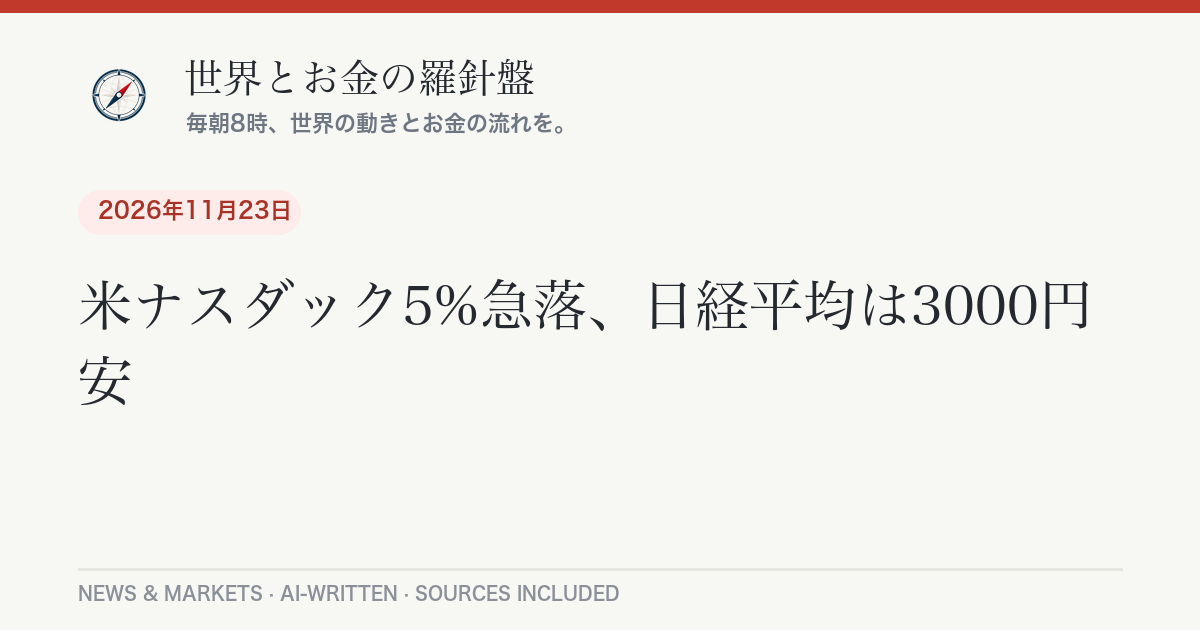
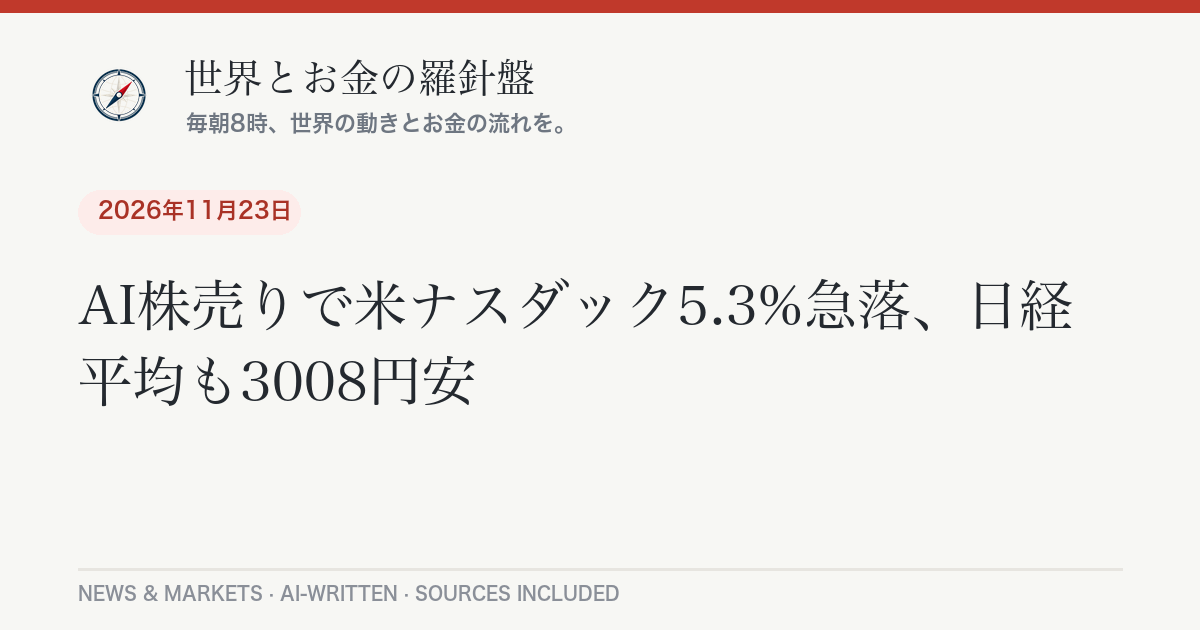
Daily briefing 2026-11-25

Changed region(s): [[0.0617, 0.4222, 0.925, 0.5429], [0.0617, 0.5429, 0.4008, 0.6635]]

diff --git a/_posts/2026-11-25-daily-briefing.md b/_posts/2026-11-25-daily-briefing.md
@@ -1,0 +1,103 @@
+---
+layout: post
+lang: ja
+title: "エヌビディアのファン氏CEO復帰、日経平均2,208円高も米AI株は反落｜11月25日のニュースとお金"
+date: 2026-11-25 08:54:17 +0900
+categories: [ニュース, 経済]
+headline: "エヌビディアのファン氏CEO復帰、日経平均2,208円高も米AI株は反落"
+permalink: /2026/11/25/daily-briefing/
+---
+
+## 今日のポイント
+
+エヌビディアの取締役会がジェンスン・ファン氏のCEO復帰を決め、AI関連株が大きく動いた一日でした。東京では日経平均が急反発しましたが、米国ではそのAI株が翌日にはっきり反落。一方でダウは5万ドル台で引け、「AIだけが相場ではない」という顔つきも見えてきました。
+
+## 今日の羅針盤（Compass Insight）
+
+昨日の相場は「AI株の急騰と反落」と「AI以外の堅調」が同時に起きた、二つの顔を持つ一日でした。日経平均は[3.91%高](https://kabutan.jp/news/marketnews/?b=n202611241187)と派手でしたが、値上がりを引っ張ったのは半導体関連の一部の銘柄です。指数の大きさほど、広く買われたわけではありません。
+
+家計への影響で見ておきたいのは金利です。米国では[12月の利上げ確率が95%とみられ](https://finance.yahoo.com/markets/live/stock-market-today-tuesday-november-24-dow-sp-500-nasdaq-chip-stocks-nvidia-140629923.html)、ドル円は[159円台](https://api.frankfurter.app/)の円安水準にあります。円安が続くと、輸入品や光熱費の負担が重くなりやすい点は意識しておきたいところです。株価が上がっても、暮らしのコストが同時に上がる局面だからです。
+
+短期では、感謝祭（26日）を前にした今夜の米国市場と、東京市場が今日どこまで戻すかに注目です。夜間の日経平均先物は[前日比1,610円安](https://news.livedoor.com/topics/detail/32892584/)で終えており、今日は売りから始まる可能性があります。中長期では、AI投資に見合う利益が出るのか、高い金利の中で資金調達が続くのか、そして米中間選挙後の規制の行方が焦点です。値動きの大きい局面なので、一つのテーマに集中しすぎない姿勢が問われそうです。
+
+## 今日のニュース
+
+### 日本
+- 3連休明けの東京市場で日経平均は[5万8,644円63銭、前週末比2,207円98銭高](https://kabutan.jp/news/marketnews/?b=n202611241187)と急反発。エヌビディアのファン氏復帰を受け、AI・半導体関連に買い戻しが入った。
+- 楽天証券は11月17日、不正アクセスにより顧客情報が漏えいした可能性があると発表。[最大約1,125万口座でログインIDなど、最大約447万口座で氏名・住所などが対象となる可能性](https://www.watch.impress.co.jp/docs/news/2157207.html)がある。パスワードなど取引に必要な情報の漏えいは確認されていないとしている。
+- 高市首相は先週（18〜19日）の中国・深圳でのAPECで、[習近平国家主席との正式会談は見送られる見通し](https://www.internazionale.it/ultime-notizie-reuters/2026/11/19/from-tarmac-to-apec-summit-table-japan-s-pm-cuts-a-lonely-figure)など、日中関係の冷え込みが改めて浮き彫りになった。
+
+### 世界
+- [エヌビディアの取締役会は23日、ファン氏をCEOに復帰させることを全会一致で決定](https://investor.nvidia.com/news/press-release-details/2026/NVIDIA-Board-Reinstates-Jensen-Huang-as-President-CEO-and-Board-Director/default.aspx)。トランプ大統領は[自らの働きかけを強調](https://www.npr.org/2026/11/23/nx-s1-6050910/nvidias-jensen-huang-trump)した。
+- 対話型AI「Claude」を手がけるアンソロピックの株価が[6.5%下落し、先週の新規公開価格（83ドル）を下回った](https://bnnbloomberg.ca/investing/market-outlook/2026/11/24/tech-stocks-wane-a-day-after-a-huang-rally-as-anthropic-tumbles-below-its-initial-offering-price)。
+- APEC（18〜19日）では、[習近平、トランプ、プーチンの3首脳が会談](https://www.cnbc.com/2026/11/19/trump-xi-putin-photos-us-china-russia-trilateral-.html)した。
+
+### アメリカ
+- 24日の米株は、ダウが[423.39ドル高の5万18.70ドル](https://wtop.com/national/2026/11/how-major-us-stock-indexes-fared-tuesday-11-24-2026)で引け、S&P500とナスダックは下落。AI関連株が売られた一方、それ以外の多くの銘柄は上昇した。
+- 米消費者の景況感は、コンファレンスボードの調査で[予想以上に改善](https://bnnbloomberg.ca/investing/market-outlook/2026/11/24/tech-stocks-wane-a-day-after-a-huang-rally-as-anthropic-tumbles-below-its-initial-offering-price)。中間選挙後に民主党支持層・無党派層の信頼感が大きく上向いた。
+- 市場では[12月に0.25ポイントの利上げがある確率が95%](https://finance.yahoo.com/markets/live/stock-market-today-tuesday-november-24-dow-sp-500-nasdaq-chip-stocks-nvidia-140629923.html)との見方になっている。
+
+### ヨーロッパ
+- スペインでは[11月29日に総選挙](https://www.bnnbloomberg.ca/business/international/2026/11/11/spains-workers-hold-a-general-strike-over-housing-costs-ahead-of-a-national-election/)。住宅費高騰への抗議で11日にゼネストが行われた経緯がある。
+- ECBのラガルド総裁は11月初め、[インフレ・リスクが続くと警告](https://www.fxstreet.com/news/ecbs-lagarde-warns-inflation-risks-persist-as-energy-and-ai-trends-diverge-202611051622)した。昨日の欧州市場について確認できた主だった動きは限定的。
+
+## 経済とお金の動き
+
+### 世界の経済と相場
+
+| 指標 | 水準 | 前日比 |
+|---|---|---|
+| 日経平均株価（11/24終値） | 58,644.63円 | <span class="chg-up">+2,207.98円（+3.91%）</span> |
+| NYダウ（11/24終値） | 50,018.70ドル | <span class="chg-up">+423.39ドル（+0.85%）</span> |
+| S&P500 | 7,201.09 | <span class="chg-down">-36.08（-0.50%）</span> |
+| ナスダック総合 | 23,733.54 | <span class="chg-down">-356.02（-1.48%）</span> |
+| ドル円（ECB参照レート、11/24） | 159.07円 | 円安水準 |
+| WTI原油（Yahoo Finance表示） | 81.65ドル/バレル | 米報道では「上昇」と伝えられた |
+| 日経平均先物（夜間終値） | 57,370円 | <span class="chg-down">-1,610円</span> |
+
+*出典：[AP](https://wtop.com/national/2026/11/how-major-us-stock-indexes-fared-tuesday-11-24-2026)、[株探](https://kabutan.jp/news/marketnews/?b=n202611241187)、[Yahoo Finance](https://finance.yahoo.com/markets/live/stock-market-today-tuesday-november-24-dow-sp-500-nasdaq-chip-stocks-nvidia-140629923.html)、[frankfurter API](https://api.frankfurter.app/)。ドル円は欧州中央銀行の参照レートで基準日は24日。原油の前日比は情報源で食い違うため、水準のみ記載。*
+
+世界の株式市場は、AI関連が上にも下にも大きく振れる展開です。S&P500は[9営業日で8回下落](https://wtop.com/national/2026/11/how-major-us-stock-indexes-fared-tuesday-11-24-2026)する一方、週間では上昇。値動きの荒さが続いています。
+
+### アメリカの経済
+
+景況感の改善と企業業績の強さが下支えです。S&P500の企業は[3四半期連続で1株利益が25%超の伸び](https://bnnbloomberg.ca/investing/market-outlook/2026/11/24/tech-stocks-wane-a-day-after-a-huang-rally-as-anthropic-tumbles-below-its-initial-offering-price)の勢いとされます。ただ、利上げ観測が強まるとAI企業の資金調達コストが上がり、株価の重しになります。
+
+### 日本の経済
+
+日経平均は大きく戻したものの、値上がり銘柄数は指数の上げ幅ほど広がりませんでした。円安水準が続くなか、今日は先物安を受けて売りから入る可能性があり、AI・半導体株に偏った上昇の脆さが試されます。
+
+## 今日の注目銘柄・セクター
+
+- **エヌビディア**：CEO復帰が発表された23日に[31.5%の急騰](https://bnnbloomberg.ca/investing/market-outlook/2026/11/24/tech-stocks-wane-a-day-after-a-huang-rally-as-anthropic-tumbles-below-its-initial-offering-price)、24日は[5.9%下落](https://bnnbloomberg.ca/investing/market-outlook/2026/11/24/tech-stocks-wane-a-day-after-a-huang-rally-as-anthropic-tumbles-below-its-initial-offering-price)。復帰は材料でも、AIの収益性への疑問は解消していないとの見方が背景。
+- **日本のAI・半導体関連（アドバンテスト、東京エレクトロンなど）**：24日の日経平均で[上げ幅への寄与が最も大きかった](https://www.media-ir.com/news/?p=189279)。米国の反落を受け、今日は値動きが荒くなる可能性。
+- **アンソロピック**：上場直後に一時115ドルまで上昇したが、24日は6.5%安で公開価格の83ドルを下回った。人気先行だった評価の調整局面。
+- **小売（コールズ、ダラー・ツリー）**：決算が予想を上回り、[コールズは19.5%高、ダラー・ツリーは11.2%高](https://bnnbloomberg.ca/investing/market-outlook/2026/11/24/tech-stocks-wane-a-day-after-a-huang-rally-as-anthropic-tumbles-below-its-initial-offering-price)。AI以外にも資金が向かっている例。
+
+*※特定銘柄の売買を推奨するものではありません。投資判断はご自身の責任で。*
+
+## まとめ：注目の3つ
+
+1. エヌビディアのCEO復帰で動いたAI株。急騰の翌日の反落で、方向感はまだ定まっていない。
+2. 米国の12月利上げ観測（確率95%）と、159円台のドル円。家計への影響も含めて注視。
+3. 今日の東京市場。夜間先物が1,610円安で終え、売りから入る可能性。
+
+---
+<div class="post-sources" markdown="1">
+
+**出典：**
+- [AP通信（WTOP）：How major US stock indexes fared Tuesday 11/24/2026](https://wtop.com/national/2026/11/how-major-us-stock-indexes-fared-tuesday-11-24-2026)
+- [AP通信（BNN Bloomberg）：Drops for Nvidia, Anthropic and other AI stocks drag the U.S. market back down](https://bnnbloomberg.ca/investing/market-outlook/2026/11/24/tech-stocks-wane-a-day-after-a-huang-rally-as-anthropic-tumbles-below-its-initial-offering-price)
+- [Yahoo Finance：Stock market today, Nov. 24](https://finance.yahoo.com/markets/live/stock-market-today-tuesday-november-24-dow-sp-500-nasdaq-chip-stocks-nvidia-140629923.html)
+- [NVIDIA：Board Reinstates Jensen Huang as President, CEO and Board Director](https://investor.nvidia.com/news/press-release-details/2026/NVIDIA-Board-Reinstates-Jensen-Huang-as-President-CEO-and-Board-Director/default.aspx)
+- [NPR：Nvidia brings Jensen Huang back, and Trump claims credit](https://www.npr.org/2026/11/23/nx-s1-6050910/nvidias-jensen-huang-trump)
+- [株探：日経平均 大引け（11月24日）](https://kabutan.jp/news/marketnews/?b=n202611241187)
+- [ライブドアニュース：日経225先物 25日夜間取引終値](https://news.livedoor.com/topics/detail/32892584/)
+- [INTERNET Watch：楽天証券に不正アクセス](https://www.watch.impress.co.jp/docs/news/2157207.html)
+- [Reuters（Internazionale転載）：Japan's PM cuts a lonely figure](https://www.internazionale.it/ultime-notizie-reuters/2026/11/19/from-tarmac-to-apec-summit-table-japan-s-pm-cuts-a-lonely-figure)
+- [CNBC：APEC final day in photos](https://www.cnbc.com/2026/11/19/trump-xi-putin-photos-us-china-russia-trilateral-.html)
+- 市場データ: [frankfurter API](https://api.frankfurter.app/) ／ Yahoo Finance ほか
+
+*本記事は公開情報をもとに作成しています。*
+
+</div>

diff --git a/_posts/2026-11-25-daily-briefing-en.md b/_posts/2026-11-25-daily-briefing-en.md
@@ -1,0 +1,51 @@
+---
+layout: post
+lang: en
+title: "Nvidia's CEO Comeback Sparks a Whiplash AI Rally; Dow Closes Above 50,000 — November 25, 2026"
+date: 2026-11-25 08:54:17 +0900
+headline: "Nvidia's CEO Comeback Sparks a Whiplash AI Rally; Dow Closes Above 50,000"
+permalink: /2026/11/25/daily-briefing/
+---
+
+## Top U.S. Stories
+
+- **Nvidia reversed course and brought Jensen Huang back.** The board [voted unanimously on Nov. 23 to reinstate him](https://investor.nvidia.com/news/press-release-details/2026/NVIDIA-Board-Reinstates-Jensen-Huang-as-President-CEO-and-Board-Director/default.aspx) as president, CEO and director. President Trump [said he pushed for the move](https://www.npr.org/2026/11/23/nx-s1-6050910/nvidias-jensen-huang-trump). *Why it matters:* Nvidia is the bellwether of the AI trade, so a leadership question at the top moves the whole market.
+- **Nvidia gave back part of its gains.** Shares [fell 5.9% on Tuesday](https://bnnbloomberg.ca/investing/market-outlook/2026/11/24/tech-stocks-wane-a-day-after-a-huang-rally-as-anthropic-tumbles-below-its-initial-offering-price), a day after a 31.5% surge, its biggest gain in more than two decades. *Why it matters:* The rebound did not settle doubts about whether AI spending will pay off.
+- **Anthropic slipped below its IPO price.** The stock [dropped 6.5% to under $83](https://bnnbloomberg.ca/investing/market-outlook/2026/11/24/tech-stocks-wane-a-day-after-a-huang-rally-as-anthropic-tumbles-below-its-initial-offering-price), the level at which it sold shares last week, after briefly hitting $115 on day one.
+- **Consumers are feeling better.** Conference Board confidence [improved more than economists expected](https://bnnbloomberg.ca/investing/market-outlook/2026/11/24/tech-stocks-wane-a-day-after-a-huang-rally-as-anthropic-tumbles-below-its-initial-offering-price), with a sharp jump among Democrats and independents after the midterms.
+- **Retail earnings beat.** Kohl's rose 19.5% and Dollar Tree 11.2% after better-than-expected results.
+
+## Compass Insight
+
+Tuesday showed a market with two faces. AI-linked stocks reversed hard while most other stocks climbed, so the Dow rose and the Nasdaq fell. The signal is breadth: money is not leaving equities, it is rotating away from the most crowded trade. The bigger swing factor is rates. Traders now see a [95% chance of a 25 basis point Fed hike in December](https://finance.yahoo.com/markets/live/stock-market-today-tuesday-november-24-dow-sp-500-nasdaq-chip-stocks-nvidia-140629923.html), and higher borrowing costs weigh most on companies funding huge data-center builds. Near term, watch Wednesday's session before the Thanksgiving closure on Thursday. Longer term, the questions are AI profitability, financing costs and possible post-midterm regulation. Diversifying across sectors looks more relevant than chasing any single headline.
+
+## Markets
+
+- **Dow:** [50,018.70, up 423.39 (0.9%)](https://wtop.com/national/2026/11/how-major-us-stock-indexes-fared-tuesday-11-24-2026)
+- **S&P 500:** 7,201.09, down 36.08 (0.5%), its eighth loss in nine days
+- **Nasdaq:** 23,733.54, down 356.02 (1.5%)
+- **Nikkei 225 (Nov. 24):** [58,644.63, up 2,207.98 (3.91%)](https://kabutan.jp/news/marketnews/?b=n202611241187); [overnight futures fell 1,610 yen](https://news.livedoor.com/topics/detail/32892584/)
+- **USD/JPY:** [159.07](https://api.frankfurter.app/) (ECB reference rate, Nov. 24)
+
+## Stocks in Focus
+
+- **Nvidia:** a 31.5% jump on the CEO news, then a 5.9% drop. The volatility shows how much the AI trade is driven by sentiment.
+- **CoreWeave:** [fell 11.8%](https://bnnbloomberg.ca/investing/market-outlook/2026/11/24/tech-stocks-wane-a-day-after-a-huang-rally-as-anthropic-tumbles-below-its-initial-offering-price) as AI-adjacent names followed Nvidia lower.
+- **Kohl's and Dollar Tree:** strong results suggest consumer spending outside tech is holding up.
+
+*Not a recommendation to buy or sell any stock.*
+
+<div class="post-sources" markdown="1">
+
+**Sources:**
+- [AP via WTOP: How major US stock indexes fared Tuesday 11/24/2026](https://wtop.com/national/2026/11/how-major-us-stock-indexes-fared-tuesday-11-24-2026)
+- [AP via BNN Bloomberg: Drops for Nvidia, Anthropic and other AI stocks](https://bnnbloomberg.ca/investing/market-outlook/2026/11/24/tech-stocks-wane-a-day-after-a-huang-rally-as-anthropic-tumbles-below-its-initial-offering-price)
+- [Yahoo Finance: Stock market today, Nov. 24](https://finance.yahoo.com/markets/live/stock-market-today-tuesday-november-24-dow-sp-500-nasdaq-chip-stocks-nvidia-140629923.html)
+- [NVIDIA: Board Reinstates Jensen Huang](https://investor.nvidia.com/news/press-release-details/2026/NVIDIA-Board-Reinstates-Jensen-Huang-as-President-CEO-and-Board-Director/default.aspx)
+- [NPR: Nvidia brings Jensen Huang back, and Trump claims credit](https://www.npr.org/2026/11/23/nx-s1-6050910/nvidias-jensen-huang-trump)
+- [Kabutan: Nikkei close, Nov. 24](https://kabutan.jp/news/marketnews/?b=n202611241187)
+- [frankfurter API](https://api.frankfurter.app/)
+
+</div>
+
+*Auto-generated and AI-written. Not investment advice.*
